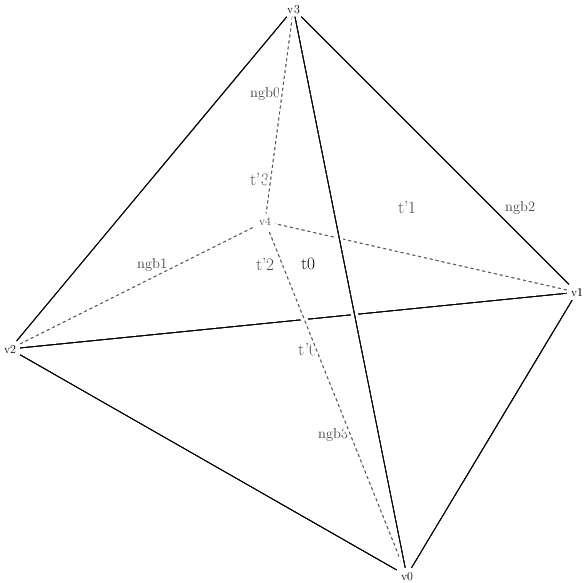
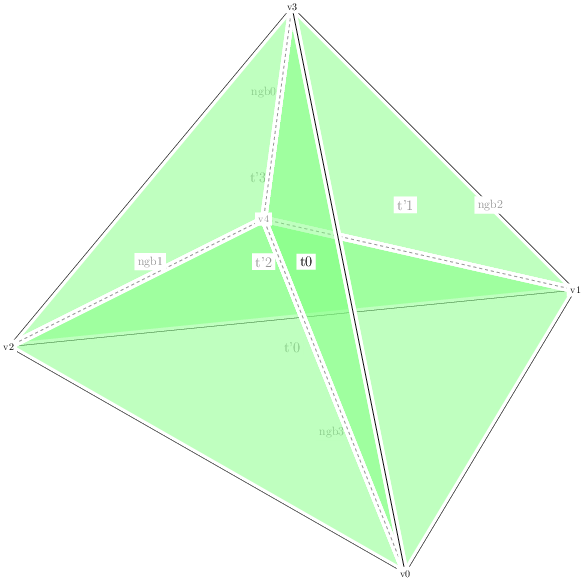
Improved 1 to 4 flip documentation and figure.

diff --git a/doc/newvoronoicell_one_to_four_flip.tex b/doc/newvoronoicell_one_to_four_flip.tex
@@ -1,10 +1,11 @@
-\documentclass[12pt]{standalone}
+\documentclass[convert={density=72,outext=.png}]{standalone}
 \usepackage{tikz}
 \usetikzlibrary{shapes.geometric, arrows}
 \usepackage{amsmath}
 
-\tikzstyle{node} = [rectangle, text centered, align=center]
-\tikzstyle{stealthnode} = [rectangle, text centered, align=center, color=gray]
+\tikzstyle{node} = [rectangle, text centered, align=center, fill=white]
+\tikzstyle{stealthnode} = [rectangle, text centered, align=center, color=gray,
+                           fill=white]
 \tikzstyle{arrow} = [thick,>=stealth]
 \tikzstyle{stealtharrow} = [thick,>=stealth, color=gray, dashed]
 
@@ -19,41 +20,69 @@
     \draw [#3] (#1) -- (#2);
 }
 
+\newcommand{\drawFace}[4]
+{
+  \fill [color=#4!50, opacity = 0.5] (#1) -- (#2) -- (#3) -- (#1);
+  \begin{scope}
+  \draw [color=white, line width=7pt, opacity=1.0] (#1) -- (#2) -- (#3) -- (#1);
+  \end{scope}
+  \draw (#1) -- (#2) -- (#3) -- (#1);
+}
+
 \begin{document}
 
 \begin{tikzpicture}[node distance=4.5cm]
+\coordinate (c3) at (0.0cm, 0.0cm);
+\coordinate (c1) at (10.0cm, -10.0cm);
+\coordinate (c2) at (-10.0cm, -12.0cm);
+\coordinate (c0) at (4.0cm, -20.0cm);
+\coordinate (c4) at (-1.0cm, -7.5cm);
+
+\drawLinewithBG{c1}{c3}{arrow}
+\drawLinewithBG{c1}{c2}{arrow}
+\drawLinewithBG{c0}{c1}{arrow}
+\drawLinewithBG{c0}{c2}{arrow}
+\drawLinewithBG{c2}{c3}{arrow}
+
+\node [stealthnode, xshift = 1.4cm, yshift = -15.0cm] {\large ngb3};
+
+\drawLinewithBG{c0}{c4}{stealtharrow}
+\drawLinewithBG{c1}{c4}{stealtharrow}
+\drawLinewithBG{c2}{c4}{stealtharrow}
+\drawLinewithBG{c3}{c4}{stealtharrow}
+
+\node [stealthnode, xshift = -1.0cm, yshift = -3.0cm] {\large ngb0};
+
+\node [stealthnode, xshift = 0.cm, yshift = -12.0cm] {\Large t'0};
+\node [stealthnode, xshift = -1.2cm, yshift = -6.0cm] {\Large t'3};
+
+\drawFace{c1}{c2}{c4}{green}
+\drawFace{c1}{c3}{c4}{green}
+\drawFace{c0}{c1}{c4}{green}
+\drawLinewithBG{c1}{c4}{stealtharrow}
+
+\drawFace{c0}{c2}{c4}{green}
+\drawFace{c0}{c3}{c4}{green}
+\drawFace{c2}{c3}{c4}{green}
+
+\drawLinewithBG{c2}{c4}{stealtharrow}
+\drawLinewithBG{c3}{c4}{stealtharrow}
+\drawLinewithBG{c0}{c4}{stealtharrow}
+
+\drawLinewithBG{c0}{c3}{arrow}
+
+\node [stealthnode, xshift = 4.0cm, yshift = -7.0cm] {\Large t'1};
+\node [stealthnode, xshift = -1.0cm, yshift = -9.0cm] {\Large t'2};
+\node [stealthnode, xshift = -5.0cm, yshift = -9.0cm] {\large ngb1};
+\node [stealthnode, xshift = 7.0cm, yshift = -7.0cm] {\large ngb2};
+
+\node [node, xshift = 0.5cm, yshift = -9.0cm] {\Large t0};
+
 \node (v3) [node] {v3};
 \node (v1) [node, xshift = 10.0cm, yshift=-10.0cm] {v1};
 \node (v2) [node, xshift = -10.0cm, yshift=-12.0cm] {v2};
 \node (v0) [node, xshift = 4.0cm, yshift=-20.0cm] {v0};
 \node (v4) [stealthnode, xshift = -1.0cm, yshift=-7.5cm] {v4};
-
-\drawLinewithBG{v1}{v3}{arrow}
-\drawLinewithBG{v1}{v2}{arrow}
-\drawLinewithBG{v0}{v1}{arrow}
-\drawLinewithBG{v0}{v2}{arrow}
-\drawLinewithBG{v2}{v3}{arrow}
-
-\node [stealthnode, xshift = 0.5cm, yshift = -12.0cm] {\Large t'0};
-\node [stealthnode, xshift = -1.2cm, yshift = -6.0cm] {\Large t'3};
-
-\node [stealthnode, xshift = -1.0cm, yshift = -3.0cm] {\large ngb0};
-\node [stealthnode, xshift = 1.4cm, yshift = -15.0cm] {\large ngb3};
-
-\drawLinewithBG{v0}{v4}{stealtharrow}
-\drawLinewithBG{v1}{v4}{stealtharrow}
-\drawLinewithBG{v2}{v4}{stealtharrow}
-\drawLinewithBG{v3}{v4}{stealtharrow}
-
-\drawLinewithBG{v0}{v3}{arrow}
-
-\node [node, xshift = 0.5cm, yshift = -9.0cm] {\Large t0};
-
-\node [stealthnode, xshift = 4.0cm, yshift = -7.0cm] {\Large t'1};
-\node [stealthnode, xshift = -1.0cm, yshift = -9.0cm] {\Large t'2};
-
-\node [stealthnode, xshift = -5.0cm, yshift = -9.0cm] {\large ngb1};
-\node [stealthnode, xshift = 8.0cm, yshift = -7.0cm] {\large ngb2};
 
 \end{tikzpicture}
 

diff --git a/src/NewVoronoiCell.cpp b/src/NewVoronoiCell.cpp
@@ -545,6 +545,9 @@ unsigned char NewVoronoiCell::find_tetrahedron(
  * and the new index relations follow automatically from the way we construct
  * the new tetrahedra.
  *
+ * For clarity, the common faces of the new tetrahedra are marked in green in
+ * the figure.
+ *
  * The first new tetrahedron replaces the original tetrahedron, while the three
  * extra new tetrahedra are added to the list.
  *
